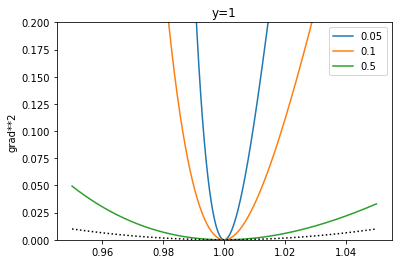
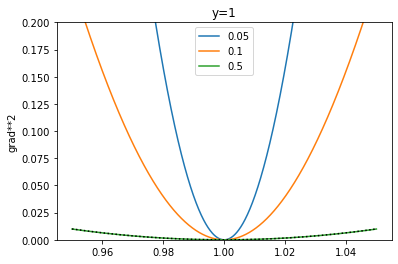
fix bugs in blog post

diff --git a/_posts/2021-08-17-intro-autoencoders.md b/_posts/2021-08-17-intro-autoencoders.md
@@ -23,6 +23,9 @@ In this blog post, I will:
 - Derive gradients for different formulations of a Gaussian autoencoder, and suggest why I think you should use the Laplace distribution, which is closely related to Gaussian.
 - **(Coming soon)** Provide some code which allows you to easily train a Gaussian or Laplacian VAE on MNIST. This code leverages PyTorch's `torch.distributions` module which heavily eases implementation of variational methods.
 
+Updates:
+- (18/08/2021) Thanks Vikram Voleti for pointing out numerous errors: (1) error where the numerator for the log RMSE gradient was incorrectly being multiplied by 2; and (2) Fig 4's plot not being consistent with its equation.
+
 <h2>Table of contents</h2>
 - Table of contents:
 {:toc}
@@ -272,15 +275,15 @@ verify_gradient()
 
 $$
 \begin{align}
-\displaystyle \frac{2 \left(x_{1} - y_{1}\right)}{\left(x_{1} - y_{1}\right)^{2} + \left(x_{2} - y_{2}\right)^{2}}
+\displaystyle \frac{\left(x_{1} - y_{1}\right)}{\left(x_{1} - y_{1}\right)^{2} + \left(x_{2} - y_{2}\right)^{2}}
 \end{align}
 $$
 
-It's worth mentioning that ommitting the square root here doesn't actually change the resulting gradient (you can verify this by removing the `sqrt` call in `verify_gradient`), so from now on I will call this the _log mean squared error_. To re-write the gradient more formally:
+It's worth mentioning that ommitting the square root here simply multiplies the gradient by `2` (you can verify this by removing the `sqrt` call in `verify_gradient`), so from now on I will call this the _log mean squared error_ since it really doesn't change anything. To re-write the gradient more formally:
 
 $$
 \begin{align} \tag{6}
-\frac{\partial L}{\partial x_i} = \frac{2(x_i - y_i)}{||x - y||_{2}^{2}}
+\frac{\partial L}{\partial x_i} = \frac{(x_i - y_i)}{||x - y||_{2}^{2}}
 \end{align}
 $$
 
@@ -291,7 +294,7 @@ xs = np.linspace(0.95,1.05,num=1000)
 deltas = [0.05, 0.1, 0.5]
 for delta in deltas:
     # assume y=1 here
-    ys = (2*(xs-1)) / ( (xs-1+delta) )
+    ys = (xs-1) / ( (xs-1)**2 + delta )
     plt.plot(xs,ys**2)
 plt.ylabel('grad**2')
 plt.title('y=1')
@@ -308,7 +311,7 @@ plt.plot(xs,ys_mse**2, c="black", linestyle="dotted")
 <figure>
 <img class="figg" src="/assets/02/output_17_1.png" alt="" width=400 />
 </figure>
-<figcaption>Figure 4: Examining the gradient of log MSE described in Equation (6), for different `delta`'s. The dotted black line is the corresponding gradient for MSE.</figcaption>
+<figcaption>Figure 4: Examining the gradient of log MSE described in Equation (6), for different `delta`'s. The dotted black line is the corresponding gradient for MSE, where `\frac{\partial (x-y)^2}{\partial x} = 2(x-y)`.</figcaption>
 <br />
 </div>
 
